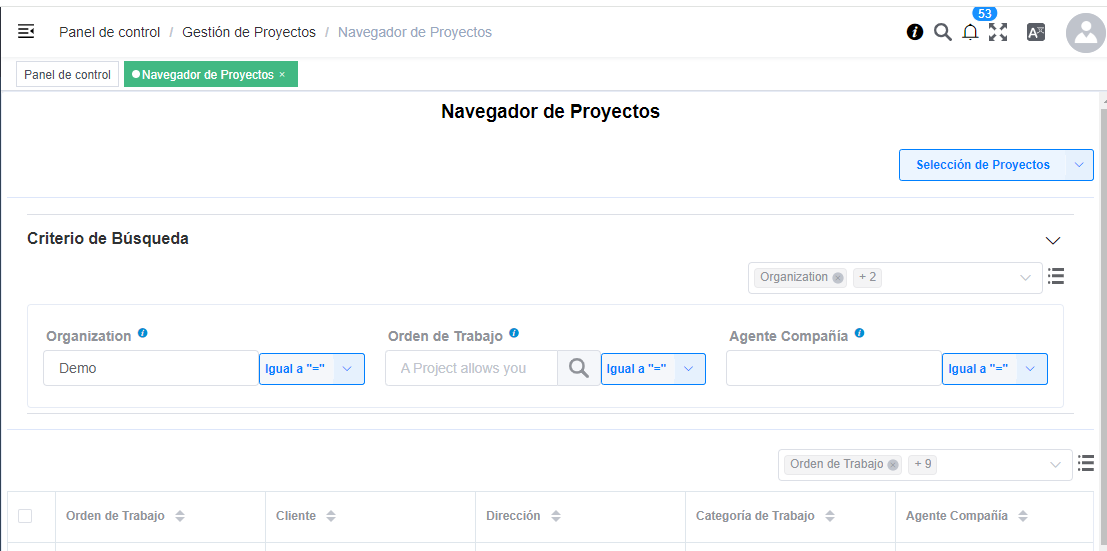
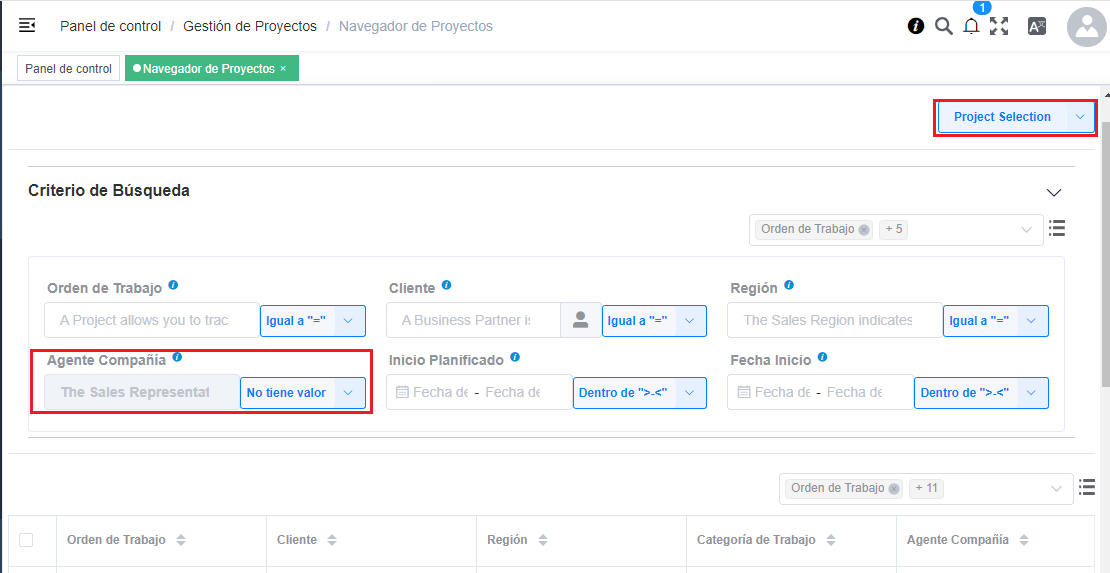
realizo mejoras y cambiio imagenes de field services

diff --git a/src/docs/verticals/field-services-management/work-order.md b/src/docs/verticals/field-services-management/work-order.md
@@ -38,27 +38,32 @@ Este estado se debe asignar cuando se marque el check de 'Facturado' en un OV qu
 
 ### Asignación de Recursos
 
-Desde la ventana de Navegador de Proyectos es posible visualizar aquellas órdenes de trabajo que aun no posean agente de comercial (es quien realizará el servicio).
-Una vez asignado a un agente comercial, el sistema le envía una notificación (solicitud) por el servicio a realizar al agente comercial en cuestión (es posible configurar el envío del mensaje por diferentes vehículos de comunicación). Además, esta acción cambiará el estado de la orden de trabajo de "Nuevo" a "Asignado".
-El agente comercial podrá aceptar el servicio a realizar. Y posteriormente a haberlo realizado, podrá enviar una confirmación del trabajo realizado (esto habilita los pasos posteriores para generar las órdenes y la facturación).
+Desde la ventana de Navegador de Proyectos es posible visualizar aquellas órdenes de trabajo que aun no posean agente de comercial (es quien realizará el servicio), seteando el parámetro Agente Compañía como filtro "No tiene valor".
+
+Una vez asignado a un agente comercial (se selecciona el que corresponda y se ejecuta desde el botón "Project Selection"), el sistema le envía una notificación (solicitud) por el servicio a realizar al agente comercial en cuestión (es posible configurar el envío del mensaje por diferentes vehículos de comunicación).
+
+Esta acción cambiará el estado de la orden de trabajo de "Nuevo" a "Asignado".
 
 ![Navegador de Proyectos](/assets/img/docs/field-services-management/fis-services3.png)
 
 ### Confirmación de Servicio realizado
 
-Una vez realizado el servicio (ejemplo: painting), el agente comercial enviará una notificación confirmando el trabajo realizado.
-Esto permite al departamento de Administración entrar en la orden de trabajo vinculada a ese servicio y agregar en la línea (o líneas si es más de un trabajo realizado) de orden de trabajo (creada en el primer paso) el/los productos confirmados por el agente comercial y dejar preparado el proyecto para la generación de órdenes y su posterior facturación.
+Una vez realizado el servicio (ejemplo: painting), el agente comercial confirma el trabajo realizado.
 
-Para agilizar este flujo es posible realizarlo desde el proceso "Navegador de proyectos" y utilizar el campo Notas para agregar los trabajos confirmados por el agente de compañia. Este dato quedará grabado en la orden de trabajo para posteriormente consultarla y agregar los trabajos realizados y confirmados en línea/s de la orden de trabajo.
+Esto permite al departamento de Administración buscar desde el navegador de proyectos (por agente comercial) e ingresar en el campo Trabajo realizado los trabajos a facturar y setear "Trabajo verificado" = SI. 
+
+Posteriormente en la orden de trabajo vinculada a ese servicio se agregará en la línea (o líneas si es más de un trabajo realizado) de orden de trabajo el/los productos confirmados por el agente comercial.
 
 ![Línea de Proyecto](/assets/img/docs/field-services-management/fis-services4.png)
 
-![Línea de Proyecto](/assets/img/docs/field-services-management/fis-services10.png)
-
 ### Generar Orden desde Proyecto
 
-Una orden de trabajo ya confirmada y con su correspondiente línea de orden generada con los productos vinculados al sericio realizado se encuentra en condiciones de facturar.
-Para esto, desde el proceso de Generar orden desde proyecto se la selecciona y le crea en forma automática (heredando los datos de la orden de trabajo) una orden de venta en estado completo. Además. esta orden en estado completo genera una orden de compra y un documento por pagar (este último corresponde al servicio realizado por el agente comercial o recurso).
+Es posible generar este proceso de dos formas
+
+* Desde el proceso de Generar orden desde proyecto se la selecciona y le crea en forma automática (heredando los datos de la orden de trabajo) una orden de venta en estado completo. 
+Esta orden en estado completo genera una orden de compra y un documento por pagar (este último corresponde al servicio realizado por el agente comercial o recurso).
+
+* Desde la misma orden de trabajo, se selecciona el proceso de generar orden.
 
 ![Generar Orden desde Proyecto](/assets/img/docs/field-services-management/fis-services5.png)
 
@@ -72,11 +77,13 @@ En este caso el producto/servicio posee un precio fijo que se obtiene de una lis
 
 En estos casos no se aplica el precio de lista de compra, sino que se utiliza un importe a partir de un porcentaje según el precio de venta definido (de la lista de precio venta que corresponda). Es decir, permite aplicar como precio de compra, un porcentaje (el cual es posible definir de antemano) del precio de venta.
 
+Este porcentaje se define en el campo esquema de descuento asociado en la ventana Socio del Negocio, pestaña proveedor, para definir los % de descuento para cada categoría de producto.
+
 * Definición con Porcentaje de Dificultad
 
 Existe un criterio de "dificultad del servicio" donde es posible definir manualmente en cada orden de trabajo la ponderación de la dificultad del mismo. Este porcentaje aplica solamente a la definición del precio de compra de dicho servicio.
 
-El porcentaje se debe definir en la línea del proyecto. 
+El porcentaje se debe definir en la línea del proyecto, campo "Multiplicador de dificultad". 
 Por defecto el valor es "1" (sigue siendo el % definido incialmente de costo), pero podría suceder que si el trabajo puntual presenta una mayor dificultad se agregue un "10 usd" más, es decir que se defina en la línea del proyecto un 1.1 y entonces se considera este importe en la multiplicación para definir el precio de compra.
 
 * Definición para Servicios realizados por empleados internos (sin costo directo)
